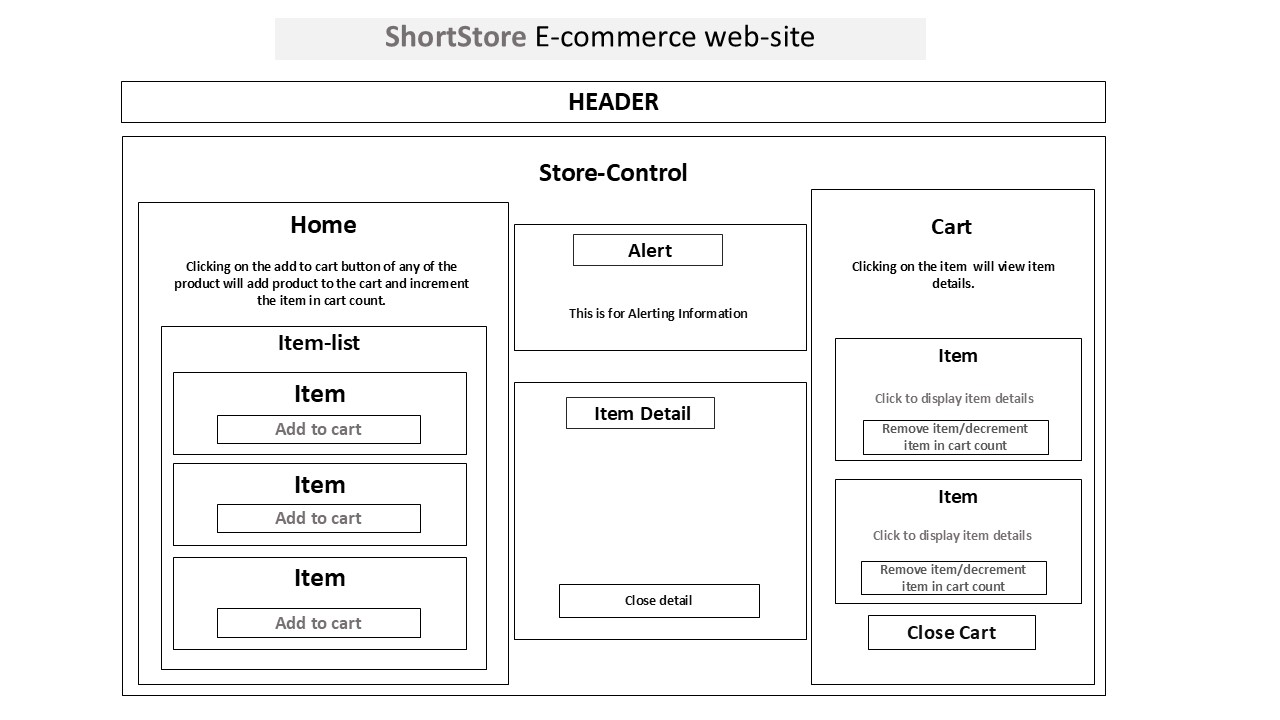
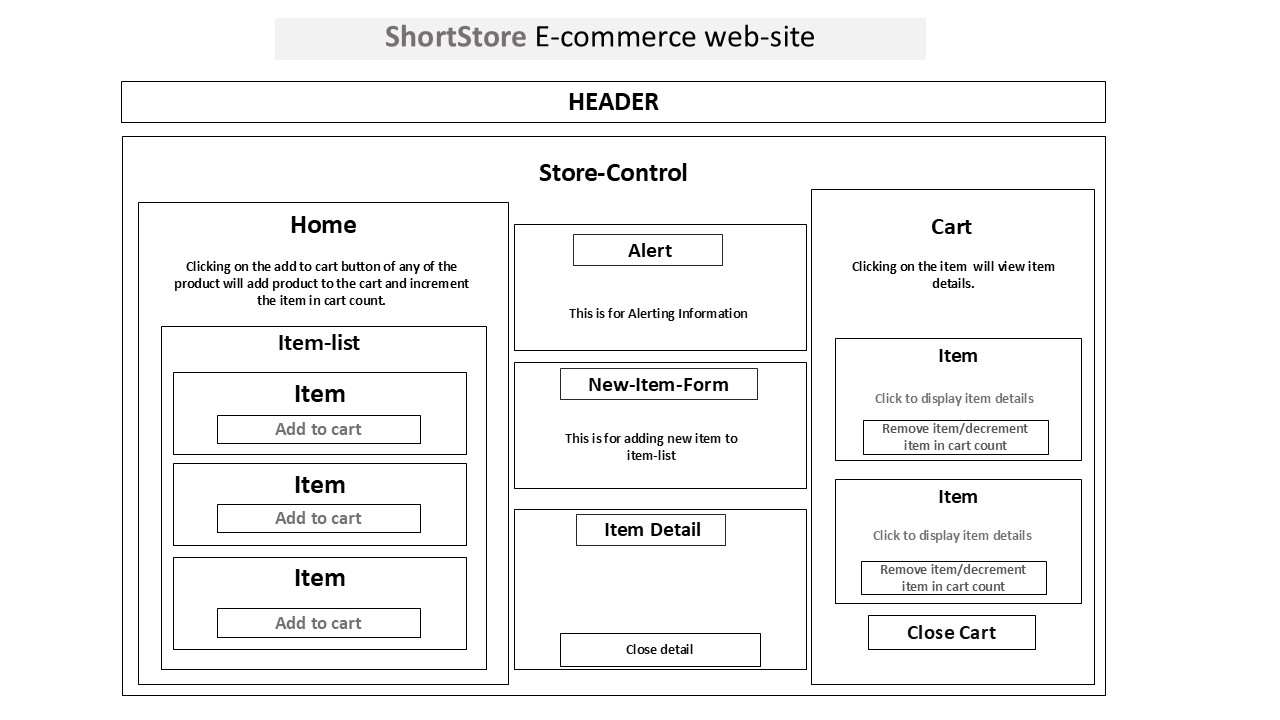
add all unsaved changes

diff --git a/src/component/MyHeaderStyle.js b/src/component/MyHeaderStyle.js
@@ -32,25 +32,24 @@ const myHeaderStyles = {
     },
     myButton: {
         transition: 'all 0.5s',
-        height: '5vmin',
-        width: '20vmin',
+        padding: '1.8vmin',
         borderRadius: '5px',
         backgroundColor: 'black',
         color: 'white',
         border: 'none',
         cursor: 'pointer',
         fontWeight: 'bold',
-        margin: '10px',
+        margin: '5px',
         boxShadow:'rgba(241, 238, 238, 0.56) 0px 10px 20px 4px',
         '&:hover': {
             backgroundColor: 'darkblue',
         },
     },
     myUl: {
-        width: '20vmin',
+        width: '30vmin',
         height: '9vmin',
         justifyContent: 'space-between',
-        fontSize: '2.5vmin',
+        fontSize: '2vmin',
         fontFamily: 'sans-serif',
         fontWeight: 'bold',
         color: 'black',

diff --git a/src/component/Header.js b/src/component/Header.js
@@ -3,7 +3,7 @@ import cartIcon from '../images/carticon.png';
 import myHeaderStyles from "./MyHeaderStyle";
 import flexBoxStyles from "./FlexBoxStyle";
 
-function Header({ toggleCartVisibility,count }) {
+function Header({ toggleCartVisibility,count,toggleFormVisibility }) {
     return (
         <nav style={{ ...flexBoxStyles.myFlex, ...myHeaderStyles.myNav }}>
             <h1 style={{ ...myHeaderStyles.myLogo }}>ShortStore</h1>
@@ -18,6 +18,7 @@ function Header({ toggleCartVisibility,count }) {
             <ul style={{ ...flexBoxStyles.myFlex, ...myHeaderStyles.myUl }}>
                 <li>Home</li>
                 <li>About</li>
+                <li onClick={toggleFormVisibility} style={{...myHeaderStyles.myButton}}>Add Item</li>
             </ul>
             <div
                 className="checkCart"

diff --git a/src/component/FormStyle.js b/src/component/FormStyle.js
@@ -11,19 +11,14 @@ const MyFormStyles = {
     form: {
         height: '80%',
         width: '70vmin',
-        backgroundColor: 'rgba(240, 235, 235, 0.18)',
-        backdropFilter: 'blur(20px)',
+        backgroundColor: 'rgba(240, 235, 235, 0.25)',
+        backdropFilter: 'blur(10px)',
         boxShadow: ' rgba(83, 83, 83, 0.4) -10px 10px, rgba(87, 86, 87, 0.3) -15px 15px, rgba(100, 99, 99, 0.2) -20px 20px, rgba(122, 122, 122, 0.1) -25px 25px, rgba(241, 237, 241, 0.01) -30px 30px',
     },
     formInputCont:{
         height: '80%',
         width: '45%',
         justifyContent: 'space-around',
-    },
-    formFile: {
-        height: '5vmin',
-        width: '25vmin',
-        paddingLeft: '10px',
     },
     formInput: {
         height: '5vmin',

diff --git a/src/component/ItemList.js b/src/component/ItemList.js
@@ -15,6 +15,8 @@ function ItemList({ mainItemList, onAddToCart, toggleItemDetailsVisibility }) {
                     name={item.name}
                     brand={item.brand}
                     price={item.price}
+                    description={item.description}
+                    rating={item.rating}
                     quantity={item.quantity}
                     addToCart={() => onAddToCart(item)}
                     toggleItemDetailsVisibility={() => toggleItemDetailsVisibility(item)} // Pass as a function
